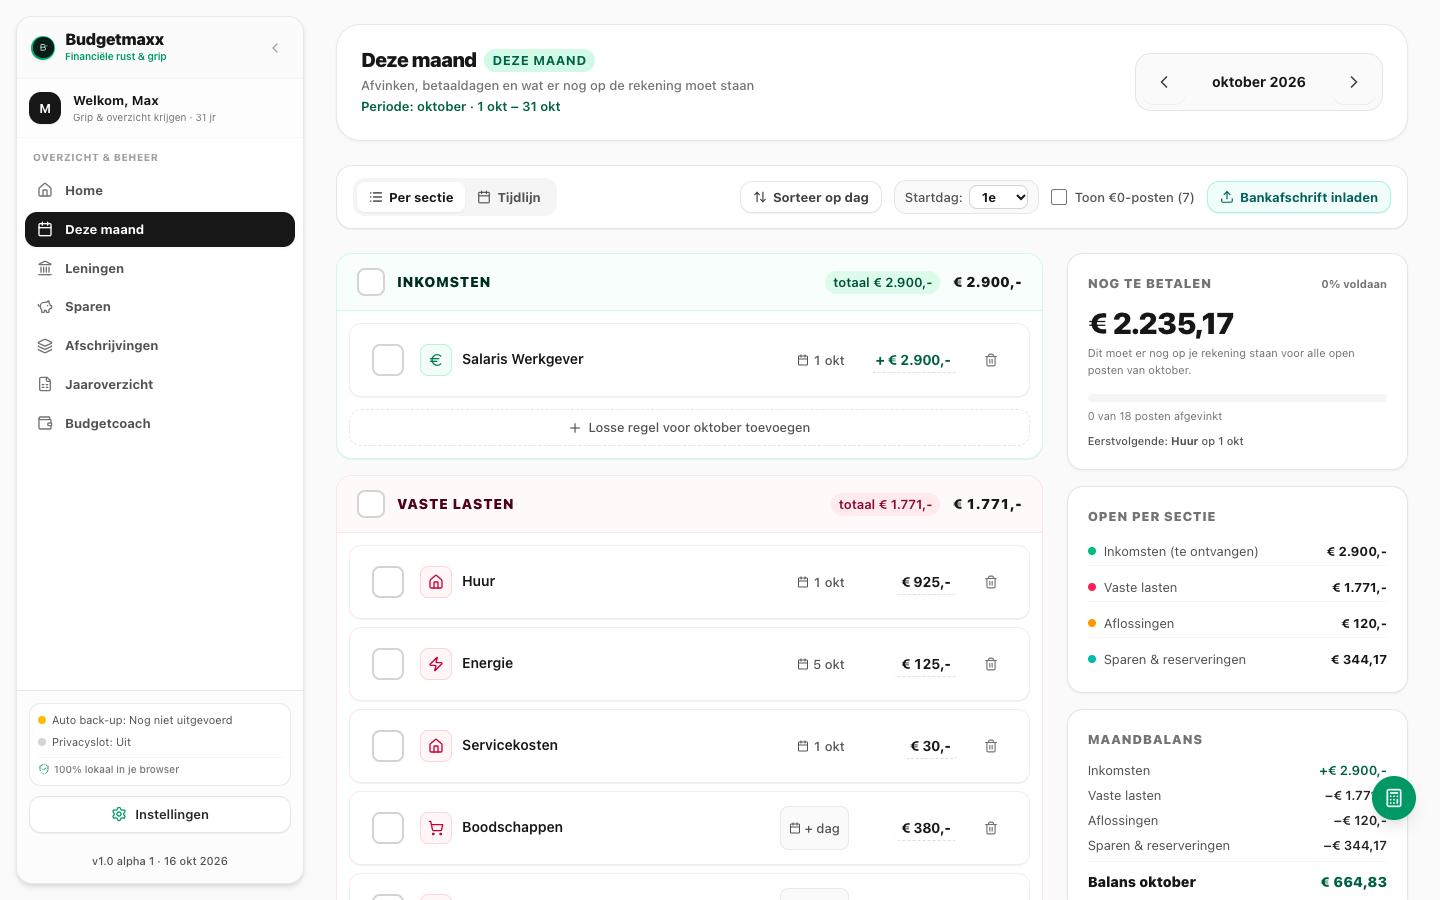
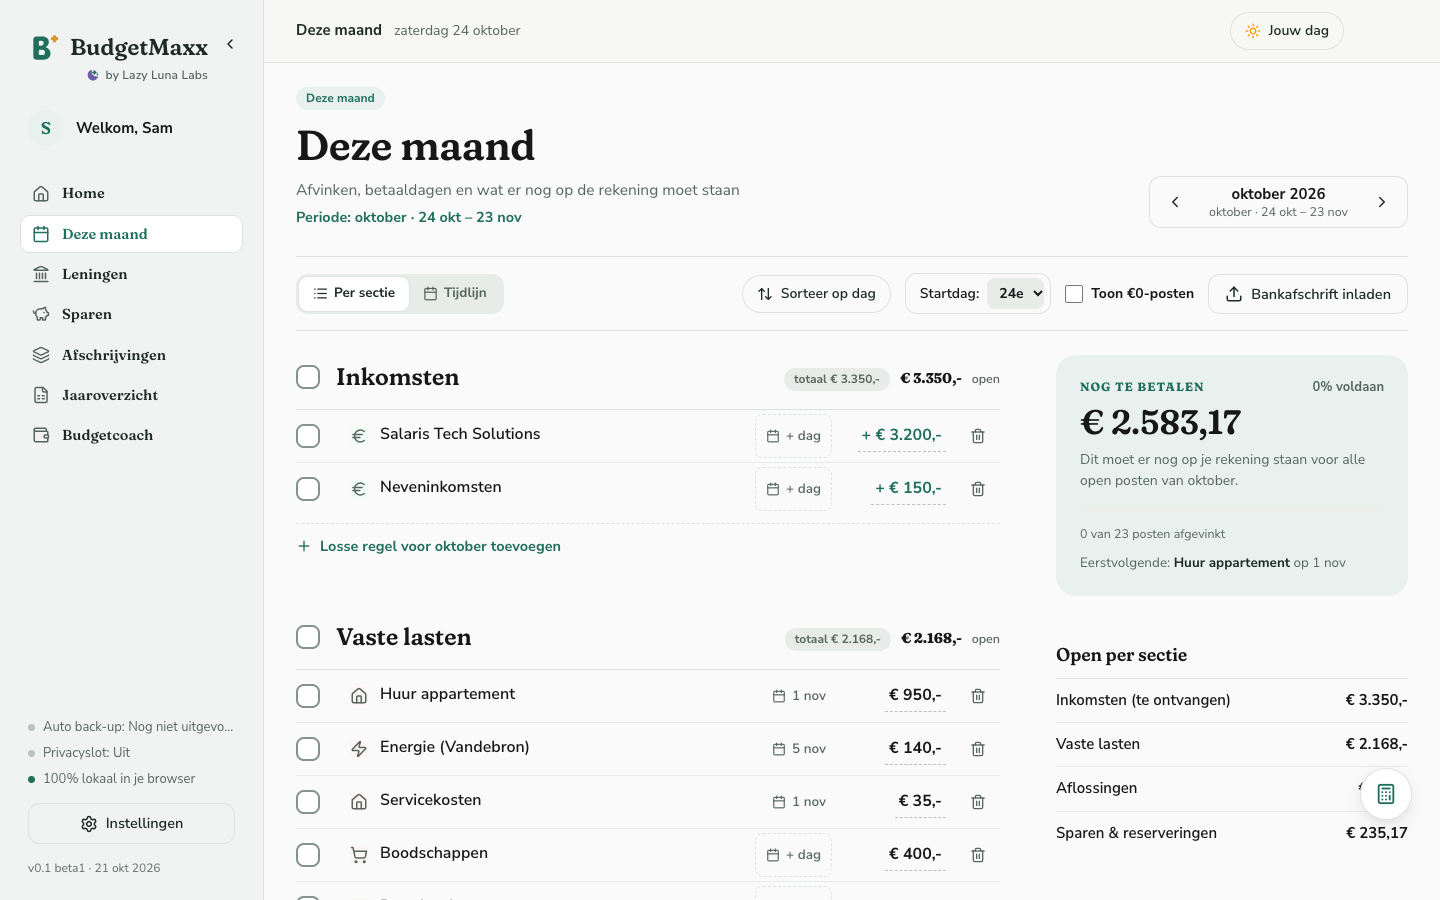
Screenshots vernieuwd: nieuw thema, demoprofiel Sam (beta 0.1.0-beta1)

diff --git a/en/budgetmaxx/index.html b/en/budgetmaxx/index.html
@@ -123,7 +123,7 @@
 <p><a class="btn" href="#beta">Become a beta tester</a></p>
 </div>
 <div class="devices">
-<div class="laptop"><img src="../../nl/budgetmaxx/img/hero-dashboard.png" width="1100" height="520" alt="Part of the BudgetMaxx dashboard for demo profile Max: income, spending, loan and spending money in one overview"></div>
+<div class="laptop"><img src="../../nl/budgetmaxx/img/hero-dashboard.png" width="1100" height="520" alt="Part of the BudgetMaxx dashboard for demo profile Sam: income, spending, loan and spending money in one overview"></div>
 <div class="phone"><img src="../../nl/budgetmaxx/img/hero-telefoon-jouwdag.png" width="780" height="1285" alt="The Your day pop-up on a phone: what comes in and goes out today"></div>
 </div>
 </div></section>
@@ -146,12 +146,12 @@
 <li><div class="num" aria-hidden="true">2</div><h3>Follow your month</h3><p class="muted">The monthly overview follows your pay period. Tick off what has been paid.</p></li>
 <li><div class="num" aria-hidden="true">3</div><h3>Know what you can spend</h3><p class="muted">The Budget coach works out a daily budget from your pot.</p></li>
 </ol>
-<p class="muted" style="margin-top:32px">This is what it looks like for demo profile Max (made-up amounts, from the screenshots below):</p>
+<p class="muted" style="margin-top:32px">This is what it looks like for demo profile Sam (made-up amounts, from the screenshots below):</p>
 <div class="stats" style="margin-top:12px">
-<div class="stat"><b>&euro;2,900</b><span>income per month</span></div>
-<div class="stat"><b>&euro;46.77</b><span>left today</span></div>
-<div class="stat"><b>&euro;664.83</b><span>October balance</span></div>
-<div class="stat"><b>&euro;7,400</b><span>still owed on the student loan</span></div>
+<div class="stat"><b>&euro;3,350</b><span>income per month</span></div>
+<div class="stat"><b>&euro;20.65</b><span>left today</span></div>
+<div class="stat"><b>&euro;766.83</b><span>October balance</span></div>
+<div class="stat"><b>&euro;5,000</b><span>still owed on the personal loan</span></div>
 </div>
 </div></section>
 
@@ -191,19 +191,19 @@
 
 <section class="alt"><div class="w">
 <h2>What it looks like</h2>
-<p class="muted">Screenshots with the fictional demo profile "Max". All amounts are made up. The screenshots show the app in Dutch; the app is also fully available in English. Scroll through the six screens, or click a tab.</p>
+<p class="muted">Screenshots with the fictional demo profile "Sam". All amounts are made up. The screenshots show the app in Dutch; the app is also fully available in English. Scroll through the six screens, or click a tab.</p>
 <div class="story" id="story">
 <div class="steps">
-<article class="step on" data-i="0" id="stap1"><span class="k">Step 1 of 6</span><h3>Home / Dashboard</h3><p class="muted">Your whole month at a glance: income (&euro;2,900), spending, the outstanding loan and what you can still spend today, plus a timeline of planned payments.</p><figure class="shotf ph"><img src="../../nl/budgetmaxx/img/dashboard.png" width="1440" height="900" loading="lazy" alt="Dashboard with income, spending, outstanding loan and spending money for demo profile Max"></figure><figure class="shotf ph tel"><img src="../../nl/budgetmaxx/img/telefoon-dashboard.png" width="780" height="1688" loading="lazy" alt="The dashboard on a phone screen"></figure></article>
-<article class="step" data-i="1" id="stap2"><span class="k">Step 2 of 6</span><h3>This month</h3><p class="muted">For each pay period you tick off what has come in and what has been paid. Max can see straight away that &euro;2,235.17 still needs to be in the account for the open items.</p><figure class="shotf ph"><img src="../../nl/budgetmaxx/img/maand.png" width="1440" height="900" loading="lazy" alt="October monthly overview with salary, rent and fixed costs to tick off"></figure></article>
-<article class="step" data-i="2" id="stap3"><span class="k">Step 3 of 6</span><h3>Budget coach</h3><p class="muted">The Budget coach works out a daily budget from your pot: &euro;46.77 left today and &euro;327.42 per 7 days, until the next payday.</p><figure class="shotf ph"><img src="../../nl/budgetmaxx/img/budgetcoach.png" width="1440" height="900" loading="lazy" alt="Budget coach with &euro;46.77 left today and &euro;327.42 per 7 days"></figure></article>
-<article class="step" data-i="3" id="stap4"><span class="k">Step 4 of 6</span><h3>Your day</h3><p class="muted">A pop-up showing what comes in today (&euro;2,900) and what goes out (10 items, &euro;1,766 in total), where you can tick things off straight away.</p><figure class="shotf ph"><img src="../../nl/budgetmaxx/img/jouwdag.png" width="1440" height="900" loading="lazy" alt="Your day pop-up showing what comes in and goes out today"></figure><figure class="shotf ph tel"><img src="../../nl/budgetmaxx/img/telefoon-jouwdag.png" width="780" height="1688" loading="lazy" alt="The Your day pop-up on a phone screen"></figure></article>
-<article class="step" data-i="4" id="stap5"><span class="k">Step 5 of 6</span><h3>Loans</h3><p class="muted">A student loan with &euro;7,400 still owed, 2.5% interest and an expected end date: debt-free in April 2032. With room for extra repayments.</p><figure class="shotf ph"><img src="../../nl/budgetmaxx/img/leningen.png" width="1440" height="900" loading="lazy" alt="Loans page with a student loan of &euro;7,400, debt-free in April 2032"></figure></article>
+<article class="step on" data-i="0" id="stap1"><span class="k">Step 1 of 6</span><h3>Home / Dashboard</h3><p class="muted">Your whole month at a glance: income (&euro;3,350), spending, the outstanding loan and what you can still spend today, plus a timeline of planned payments.</p><figure class="shotf ph"><img src="../../nl/budgetmaxx/img/dashboard.png" width="1440" height="900" loading="lazy" alt="Dashboard with income, spending, outstanding loan and spending money for demo profile Sam"></figure><figure class="shotf ph tel"><img src="../../nl/budgetmaxx/img/telefoon-dashboard.png" width="780" height="1688" loading="lazy" alt="The dashboard on a phone screen"></figure></article>
+<article class="step" data-i="1" id="stap2"><span class="k">Step 2 of 6</span><h3>This month</h3><p class="muted">For each pay period you tick off what has come in and what has been paid. Sam can see straight away that &euro;2,583.17 still needs to be in the account for the open items.</p><figure class="shotf ph"><img src="../../nl/budgetmaxx/img/maand.png" width="1440" height="900" loading="lazy" alt="October monthly overview with salary, rent and fixed costs to tick off"></figure></article>
+<article class="step" data-i="2" id="stap3"><span class="k">Step 3 of 6</span><h3>Budget coach</h3><p class="muted">The Budget coach works out a daily budget from your pot: &euro;20.65 left today and &euro;144.52 per 7 days, until the next payday.</p><figure class="shotf ph"><img src="../../nl/budgetmaxx/img/budgetcoach.png" width="1440" height="900" loading="lazy" alt="Budget coach with &euro;20.65 left today and &euro;144.52 per 7 days"></figure></article>
+<article class="step" data-i="3" id="stap4"><span class="k">Step 4 of 6</span><h3>Your day</h3><p class="muted">A pop-up showing what comes in today (&euro;3,350) and what goes out (15 items, &euro;1,223 in total), where you can tick things off straight away.</p><figure class="shotf ph"><img src="../../nl/budgetmaxx/img/jouwdag.png" width="1440" height="900" loading="lazy" alt="Your day pop-up showing what comes in and goes out today"></figure><figure class="shotf ph tel"><img src="../../nl/budgetmaxx/img/telefoon-jouwdag.png" width="780" height="1688" loading="lazy" alt="The Your day pop-up on a phone screen"></figure></article>
+<article class="step" data-i="4" id="stap5"><span class="k">Step 5 of 6</span><h3>Loans</h3><p class="muted">A personal loan with &euro;5,000 still owed, 5.5% interest and an expected end date: debt-free in March 2029. With room for extra repayments.</p><figure class="shotf ph"><img src="../../nl/budgetmaxx/img/leningen.png" width="1440" height="900" loading="lazy" alt="Loans page with a personal loan of &euro;5,000, debt-free in March 2029"></figure></article>
 <article class="step" data-i="5" id="stap6"><span class="k">Step 6 of 6</span><h3>Year overview</h3><p class="muted">The whole year as a clear table, with every item per month. At the top are buttons for PDF and Excel (CSV).</p><figure class="shotf ph"><img src="../../nl/budgetmaxx/img/jaaroverzicht.png" width="1440" height="900" loading="lazy" alt="Year overview as a spreadsheet with every item per month"></figure></article>
 </div>
 <div class="stage" aria-hidden="false"><div class="stagewrap">
 <div class="tabs" role="tablist" aria-label="Screens"><button type="button" role="tab" aria-selected="true" data-go="0">Home</button><button type="button" role="tab" aria-selected="false" data-go="1">This month</button><button type="button" role="tab" aria-selected="false" data-go="2">Budget coach</button><button type="button" role="tab" aria-selected="false" data-go="3">Your day</button><button type="button" role="tab" aria-selected="false" data-go="4">Loans</button><button type="button" role="tab" aria-selected="false" data-go="5">Year overview</button></div>
-<div class="bframe"><div class="bbar"><i></i><i></i><i></i><span>BudgetMaxx</span></div><div class="bview"><img src="../../nl/budgetmaxx/img/dashboard.png" width="1440" height="900" alt="Dashboard with income, spending, outstanding loan and spending money for demo profile Max" data-s="0" class="on"><img src="../../nl/budgetmaxx/img/maand.png" width="1440" height="900" loading="lazy" alt="October monthly overview with salary, rent and fixed costs to tick off" data-s="1"><img src="../../nl/budgetmaxx/img/budgetcoach.png" width="1440" height="900" loading="lazy" alt="Budget coach with &euro;46.77 left today and &euro;327.42 per 7 days" data-s="2"><img src="../../nl/budgetmaxx/img/jouwdag.png" width="1440" height="900" loading="lazy" alt="Your day pop-up showing what comes in and goes out today" data-s="3"><img src="../../nl/budgetmaxx/img/leningen.png" width="1440" height="900" loading="lazy" alt="Loans page with a student loan of &euro;7,400, debt-free in April 2032" data-s="4"><img src="../../nl/budgetmaxx/img/jaaroverzicht.png" width="1440" height="900" loading="lazy" alt="Year overview as a spreadsheet with every item per month" data-s="5"></div></div>
+<div class="bframe"><div class="bbar"><i></i><i></i><i></i><span>BudgetMaxx</span></div><div class="bview"><img src="../../nl/budgetmaxx/img/dashboard.png" width="1440" height="900" alt="Dashboard with income, spending, outstanding loan and spending money for demo profile Sam" data-s="0" class="on"><img src="../../nl/budgetmaxx/img/maand.png" width="1440" height="900" loading="lazy" alt="October monthly overview with salary, rent and fixed costs to tick off" data-s="1"><img src="../../nl/budgetmaxx/img/budgetcoach.png" width="1440" height="900" loading="lazy" alt="Budget coach with &euro;20.65 left today and &euro;144.52 per 7 days" data-s="2"><img src="../../nl/budgetmaxx/img/jouwdag.png" width="1440" height="900" loading="lazy" alt="Your day pop-up showing what comes in and goes out today" data-s="3"><img src="../../nl/budgetmaxx/img/leningen.png" width="1440" height="900" loading="lazy" alt="Loans page with a personal loan of &euro;5,000, debt-free in March 2029" data-s="4"><img src="../../nl/budgetmaxx/img/jaaroverzicht.png" width="1440" height="900" loading="lazy" alt="Year overview as a spreadsheet with every item per month" data-s="5"></div></div>
 <div class="pframe" id="pf"><div class="pview"><img src="../../nl/budgetmaxx/img/telefoon-dashboard.png" width="780" height="1688" loading="lazy" alt="The dashboard on a phone screen" data-s="0" class="on"><img src="../../nl/budgetmaxx/img/telefoon-jouwdag.png" width="780" height="1688" loading="lazy" alt="The Your day pop-up on a phone screen" data-s="3"></div></div>
 </div></div>
 </div>

diff --git a/nl/budgetmaxx/index.html b/nl/budgetmaxx/index.html
@@ -124,7 +124,7 @@
 <p><a class="btn" href="#beta">Word beta-tester</a></p>
 </div>
 <div class="devices">
-<div class="laptop"><img src="img/hero-dashboard.png" width="1100" height="520" alt="Uitsnede van het BudgetMaxx-dashboard van demoprofiel Max: inkomsten, uitgaven, lening en leefgeld in één overzicht"></div>
+<div class="laptop"><img src="img/hero-dashboard.png" width="1100" height="520" alt="Uitsnede van het BudgetMaxx-dashboard van demoprofiel Sam: inkomsten, uitgaven, lening en leefgeld in één overzicht"></div>
 <div class="phone"><img src="img/hero-telefoon-jouwdag.png" width="780" height="1285" alt="De pop-up Jouw dag op een telefoon: wat er vandaag binnenkomt en wat eraf gaat"></div>
 </div>
 </div></section>
@@ -147,12 +147,12 @@
 <li><div class="num" aria-hidden="true">2</div><h3>Volg je maand</h3><p class="muted">Het maandoverzicht volgt je salarisperiode. Vink af wat betaald is.</p></li>
 <li><div class="num" aria-hidden="true">3</div><h3>Weet wat je mag uitgeven</h3><p class="muted">De Budgetcoach rekent een dagbudget uit je pot.</p></li>
 </ol>
-<p class="muted" style="margin-top:32px">Zo ziet dat eruit voor demoprofiel Max (verzonnen bedragen, uit de screenshots hieronder):</p>
+<p class="muted" style="margin-top:32px">Zo ziet dat eruit voor demoprofiel Sam (verzonnen bedragen, uit de screenshots hieronder):</p>
 <div class="stats" style="margin-top:12px">
-<div class="stat"><b>&euro; 2.900,-</b><span>inkomsten per maand</span></div>
-<div class="stat"><b>&euro; 46,77</b><span>resterend vandaag</span></div>
-<div class="stat"><b>&euro; 664,83</b><span>balans oktober</span></div>
-<div class="stat"><b>&euro; 7.400,-</b><span>nog open op de studielening</span></div>
+<div class="stat"><b>&euro; 3.350,-</b><span>inkomsten per maand</span></div>
+<div class="stat"><b>&euro; 20,65</b><span>resterend vandaag</span></div>
+<div class="stat"><b>&euro; 766,83</b><span>balans oktober</span></div>
+<div class="stat"><b>&euro; 5.000,-</b><span>nog open op de persoonlijke lening</span></div>
 </div>
 </div></section>
 
@@ -192,19 +192,19 @@
 
 <section class="alt"><div class="w">
 <h2>Zo ziet het eruit</h2>
-<p class="muted">Schermafbeeldingen met het fictieve demoprofiel "Max". Alle bedragen zijn verzonnen. Scroll door de zes schermen, of klik een tab.</p>
+<p class="muted">Schermafbeeldingen met het fictieve demoprofiel "Sam". Alle bedragen zijn verzonnen. Scroll door de zes schermen, of klik een tab.</p>
 <div class="story" id="story">
 <div class="steps">
-<article class="step on" data-i="0" id="stap1"><span class="k">Stap 1 van 6</span><h3>Home / Dashboard</h3><p class="muted">Je hele maand in één oogopslag: inkomsten (&euro; 2.900,-), uitgaven, de openstaande lening en wat je vandaag nog mag besteden, plus een tijdlijn van de geplande betalingen.</p><figure class="shotf ph"><img src="img/dashboard.png" width="1440" height="900" loading="lazy" alt="Dashboard met inkomsten, uitgaven, openstaande lening en leefgeld van demoprofiel Max"></figure><figure class="shotf ph tel"><img src="img/telefoon-dashboard.png" width="780" height="1688" loading="lazy" alt="Het dashboard op een telefoonscherm"></figure></article>
-<article class="step" data-i="1" id="stap2"><span class="k">Stap 2 van 6</span><h3>Deze maand</h3><p class="muted">Per salarisperiode vink je af wat binnen is en wat betaald is. Max ziet direct dat er nog &euro; 2.235,17 op de rekening moet staan voor de open posten.</p><figure class="shotf ph"><img src="img/maand.png" width="1440" height="900" loading="lazy" alt="Maandoverzicht oktober met salaris, huur en vaste lasten om af te vinken"></figure></article>
-<article class="step" data-i="2" id="stap3"><span class="k">Stap 3 van 6</span><h3>Budgetcoach</h3><p class="muted">De Budgetcoach rekent een dagbudget uit je pot: &euro; 46,77 resterend vandaag en &euro; 327,42 per 7 dagen, tot het volgende salaris.</p><figure class="shotf ph"><img src="img/budgetcoach.png" width="1440" height="900" loading="lazy" alt="Budgetcoach met resterend vandaag &euro; 46,77 en &euro; 327,42 per 7 dagen"></figure></article>
-<article class="step" data-i="3" id="stap4"><span class="k">Stap 4 van 6</span><h3>Jouw dag</h3><p class="muted">Een pop-up met wat er vandaag binnenkomt (&euro; 2.900,-) en wat eraf gaat (10 posten, samen &euro; 1.766,-), met een knop om meteen af te vinken.</p><figure class="shotf ph"><img src="img/jouwdag.png" width="1440" height="900" loading="lazy" alt="Pop-up Jouw dag met wat er vandaag binnenkomt en wat eraf gaat"></figure><figure class="shotf ph tel"><img src="img/telefoon-jouwdag.png" width="780" height="1688" loading="lazy" alt="De pop-up Jouw dag op een telefoonscherm"></figure></article>
-<article class="step" data-i="4" id="stap5"><span class="k">Stap 5 van 6</span><h3>Leningen</h3><p class="muted">Een studielening met &euro; 7.400,- nog open, 2,5% rente en een verwachte einddatum: schuldenvrij in april 2032. Met ruimte om extra af te lossen.</p><figure class="shotf ph"><img src="img/leningen.png" width="1440" height="900" loading="lazy" alt="Leningenpagina met een studielening van &euro; 7.400,-, schuldenvrij in april 2032"></figure></article>
+<article class="step on" data-i="0" id="stap1"><span class="k">Stap 1 van 6</span><h3>Home / Dashboard</h3><p class="muted">Je hele maand in één oogopslag: inkomsten (&euro; 3.350,-), uitgaven, de openstaande lening en wat je vandaag nog mag besteden, plus een tijdlijn van de geplande betalingen.</p><figure class="shotf ph"><img src="img/dashboard.png" width="1440" height="900" loading="lazy" alt="Dashboard met inkomsten, uitgaven, openstaande lening en leefgeld van demoprofiel Sam"></figure><figure class="shotf ph tel"><img src="img/telefoon-dashboard.png" width="780" height="1688" loading="lazy" alt="Het dashboard op een telefoonscherm"></figure></article>
+<article class="step" data-i="1" id="stap2"><span class="k">Stap 2 van 6</span><h3>Deze maand</h3><p class="muted">Per salarisperiode vink je af wat binnen is en wat betaald is. Sam ziet direct dat er nog &euro; 2.583,17 op de rekening moet staan voor de open posten.</p><figure class="shotf ph"><img src="img/maand.png" width="1440" height="900" loading="lazy" alt="Maandoverzicht oktober met salaris, huur en vaste lasten om af te vinken"></figure></article>
+<article class="step" data-i="2" id="stap3"><span class="k">Stap 3 van 6</span><h3>Budgetcoach</h3><p class="muted">De Budgetcoach rekent een dagbudget uit je pot: &euro; 20,65 resterend vandaag en &euro; 144,52 per 7 dagen, tot het volgende salaris.</p><figure class="shotf ph"><img src="img/budgetcoach.png" width="1440" height="900" loading="lazy" alt="Budgetcoach met resterend vandaag &euro; 20,65 en &euro; 144,52 per 7 dagen"></figure></article>
+<article class="step" data-i="3" id="stap4"><span class="k">Stap 4 van 6</span><h3>Jouw dag</h3><p class="muted">Een pop-up met wat er vandaag binnenkomt (&euro; 3.350,-) en wat eraf gaat (15 posten, samen &euro; 1.223,-), met een knop om meteen af te vinken.</p><figure class="shotf ph"><img src="img/jouwdag.png" width="1440" height="900" loading="lazy" alt="Pop-up Jouw dag met wat er vandaag binnenkomt en wat eraf gaat"></figure><figure class="shotf ph tel"><img src="img/telefoon-jouwdag.png" width="780" height="1688" loading="lazy" alt="De pop-up Jouw dag op een telefoonscherm"></figure></article>
+<article class="step" data-i="4" id="stap5"><span class="k">Stap 5 van 6</span><h3>Leningen</h3><p class="muted">Een persoonlijke lening met &euro; 5.000,- nog open, 5,5% rente en een verwachte einddatum: schuldenvrij in maart 2029. Met ruimte om extra af te lossen.</p><figure class="shotf ph"><img src="img/leningen.png" width="1440" height="900" loading="lazy" alt="Leningenpagina met een persoonlijke lening van &euro; 5.000,-, schuldenvrij in maart 2029"></figure></article>
 <article class="step" data-i="5" id="stap6"><span class="k">Stap 6 van 6</span><h3>Jaaroverzicht</h3><p class="muted">Het hele jaar als overzichtelijke tabel, met alle posten per maand. Bovenaan staan knoppen voor PDF en Excel (CSV).</p><figure class="shotf ph"><img src="img/jaaroverzicht.png" width="1440" height="900" loading="lazy" alt="Jaaroverzicht als spreadsheet met alle posten per maand"></figure></article>
 </div>
 <div class="stage" aria-hidden="false"><div class="stagewrap">
 <div class="tabs" role="tablist" aria-label="Schermen"><button type="button" role="tab" aria-selected="true" data-go="0">Home</button><button type="button" role="tab" aria-selected="false" data-go="1">Deze maand</button><button type="button" role="tab" aria-selected="false" data-go="2">Budgetcoach</button><button type="button" role="tab" aria-selected="false" data-go="3">Jouw dag</button><button type="button" role="tab" aria-selected="false" data-go="4">Leningen</button><button type="button" role="tab" aria-selected="false" data-go="5">Jaaroverzicht</button></div>
-<div class="bframe"><div class="bbar"><i></i><i></i><i></i><span>BudgetMaxx</span></div><div class="bview"><img src="img/dashboard.png" width="1440" height="900" alt="Dashboard met inkomsten, uitgaven, openstaande lening en leefgeld van demoprofiel Max" data-s="0" class="on"><img src="img/maand.png" width="1440" height="900" loading="lazy" alt="Maandoverzicht oktober met salaris, huur en vaste lasten om af te vinken" data-s="1"><img src="img/budgetcoach.png" width="1440" height="900" loading="lazy" alt="Budgetcoach met resterend vandaag &euro; 46,77 en &euro; 327,42 per 7 dagen" data-s="2"><img src="img/jouwdag.png" width="1440" height="900" loading="lazy" alt="Pop-up Jouw dag met wat er vandaag binnenkomt en wat eraf gaat" data-s="3"><img src="img/leningen.png" width="1440" height="900" loading="lazy" alt="Leningenpagina met een studielening van &euro; 7.400,-, schuldenvrij in april 2032" data-s="4"><img src="img/jaaroverzicht.png" width="1440" height="900" loading="lazy" alt="Jaaroverzicht als spreadsheet met alle posten per maand" data-s="5"></div></div>
+<div class="bframe"><div class="bbar"><i></i><i></i><i></i><span>BudgetMaxx</span></div><div class="bview"><img src="img/dashboard.png" width="1440" height="900" alt="Dashboard met inkomsten, uitgaven, openstaande lening en leefgeld van demoprofiel Sam" data-s="0" class="on"><img src="img/maand.png" width="1440" height="900" loading="lazy" alt="Maandoverzicht oktober met salaris, huur en vaste lasten om af te vinken" data-s="1"><img src="img/budgetcoach.png" width="1440" height="900" loading="lazy" alt="Budgetcoach met resterend vandaag &euro; 20,65 en &euro; 144,52 per 7 dagen" data-s="2"><img src="img/jouwdag.png" width="1440" height="900" loading="lazy" alt="Pop-up Jouw dag met wat er vandaag binnenkomt en wat eraf gaat" data-s="3"><img src="img/leningen.png" width="1440" height="900" loading="lazy" alt="Leningenpagina met een persoonlijke lening van &euro; 5.000,-, schuldenvrij in maart 2029" data-s="4"><img src="img/jaaroverzicht.png" width="1440" height="900" loading="lazy" alt="Jaaroverzicht als spreadsheet met alle posten per maand" data-s="5"></div></div>
 <div class="pframe" id="pf"><div class="pview"><img src="img/telefoon-dashboard.png" width="780" height="1688" loading="lazy" alt="Het dashboard op een telefoonscherm" data-s="0" class="on"><img src="img/telefoon-jouwdag.png" width="780" height="1688" loading="lazy" alt="De pop-up Jouw dag op een telefoonscherm" data-s="3"></div></div>
 </div></div>
 </div>
